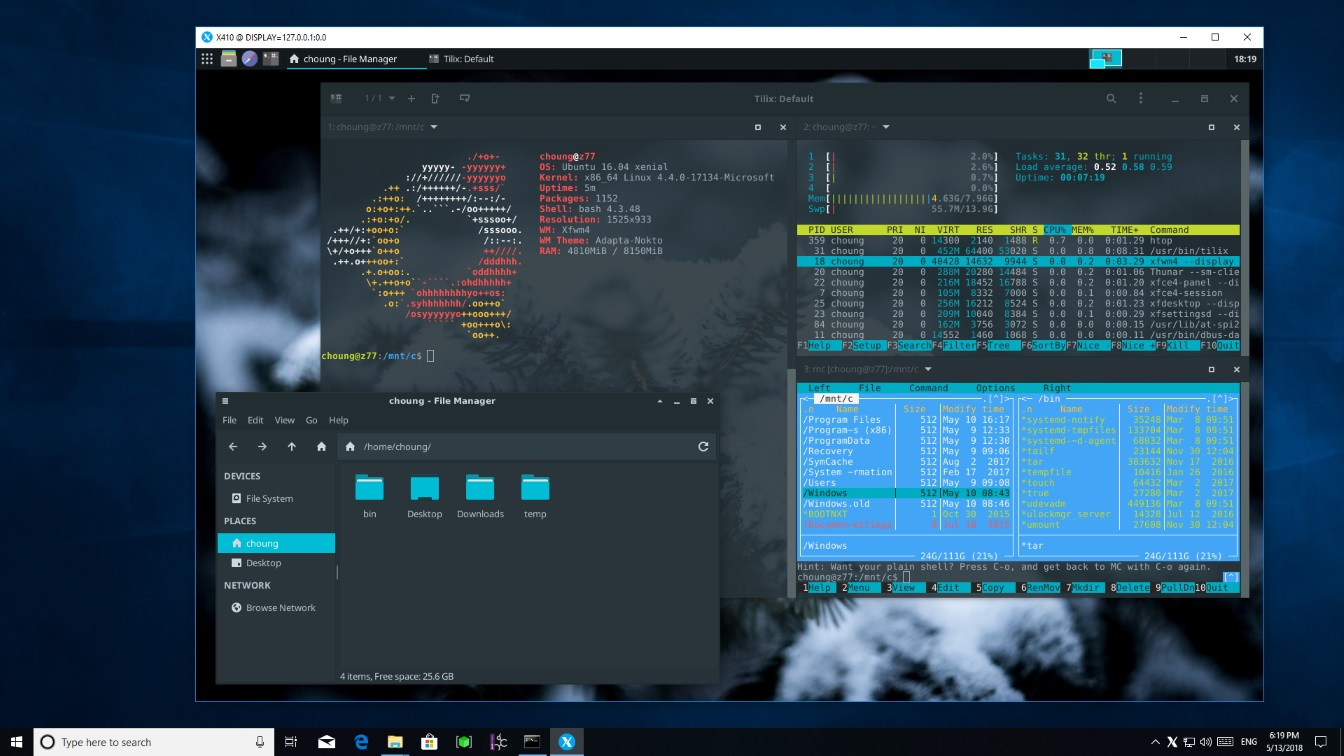
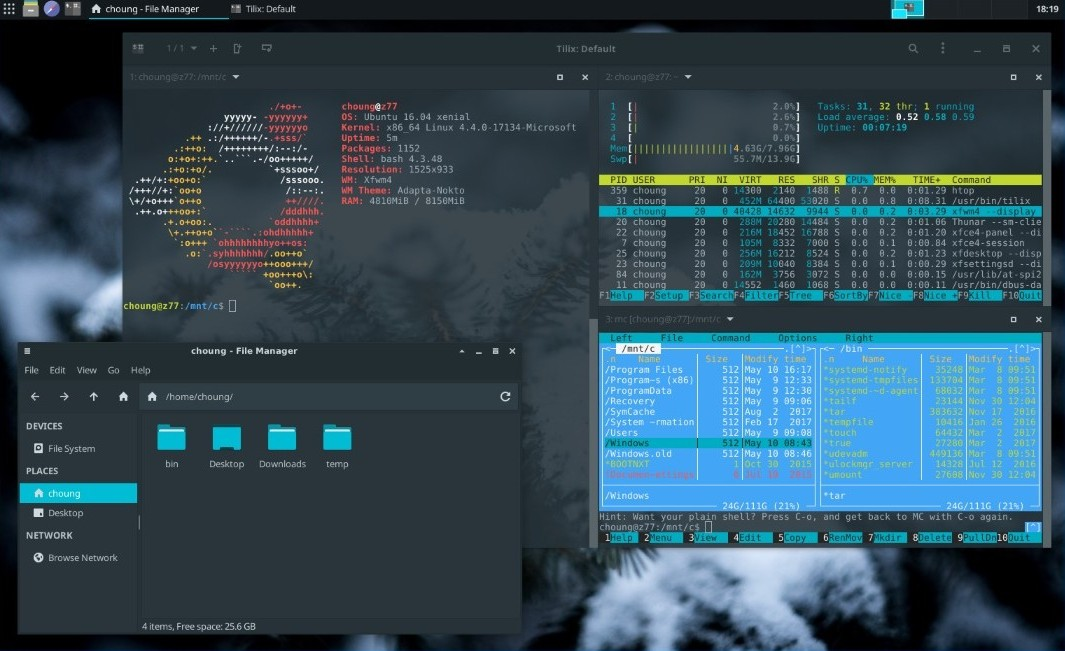
Added GNOME screenshots and cropped XFCE screenshot

diff --git a/_drafts/Linux-for-Mere-Mortals.md b/_drafts/Linux-for-Mere-Mortals.md
@@ -180,7 +180,7 @@ to your liking.
 *Figure 3: A plain looking XFCE installation*
 
 ![A customized XFCE installation]({{site.url}}/assets/linux/xfce_2.jpg)
-*Figure 4: A prettier and more customized XFCE installation with transparent terminal windows, shown inside a virtual machine under Windows*
+*Figure 4: A prettier and more customized XFCE installation with transparent terminal windows*
 
 The lightness of XFCE is one of the things that makes Linux Mint w/ XFCE a great
 choice for breathing life into older computers.
@@ -191,9 +191,18 @@ Notably, GNOME has a
 [strong commitment to accessibility](https://developer.gnome.org/documentation/guidelines/accessibility.html).
 Its developers maintain compatibility with accessibility software such as the Orca screen 
 reader and the Dasher input method.[^dasher] If you need to use accessibility software,
-you may want to use GNOME. 
+you may want to use GNOME. Below are screenshots of a stock GNOME installation, and one 
+that's customized to show more performance values in the top bar. 
 
-<!-- TODO: Insert photo of GNOME -->
+<!-- I regret that neither of these screenshots show window decorations, but this post
+needs to be done more than it needs to have perfect GNOME screenshots. If they want
+better advertising, they can pay me. --> 
+![A stock GNOME installation]({{site.url}}/assets/linux/gnome_stock.png)
+*Figure 5: A stock GNOME installation*
+
+![A customized GNOME installation]({{site.url}}/assets/linux/gnome_customized.png)
+*Figure 6: A customized GNOME installation*
+
 
 [KDE Plasma](https://kde.org/plasma-desktop/) is one of the prettiest and most 
 customizable desktop environments, but some may find 
